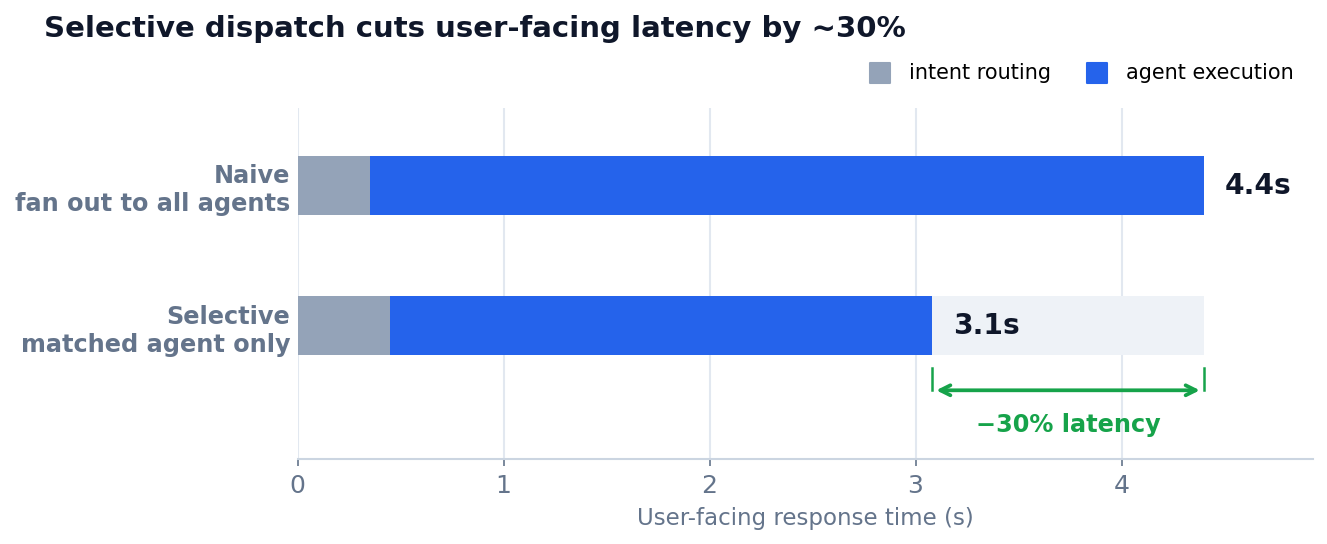
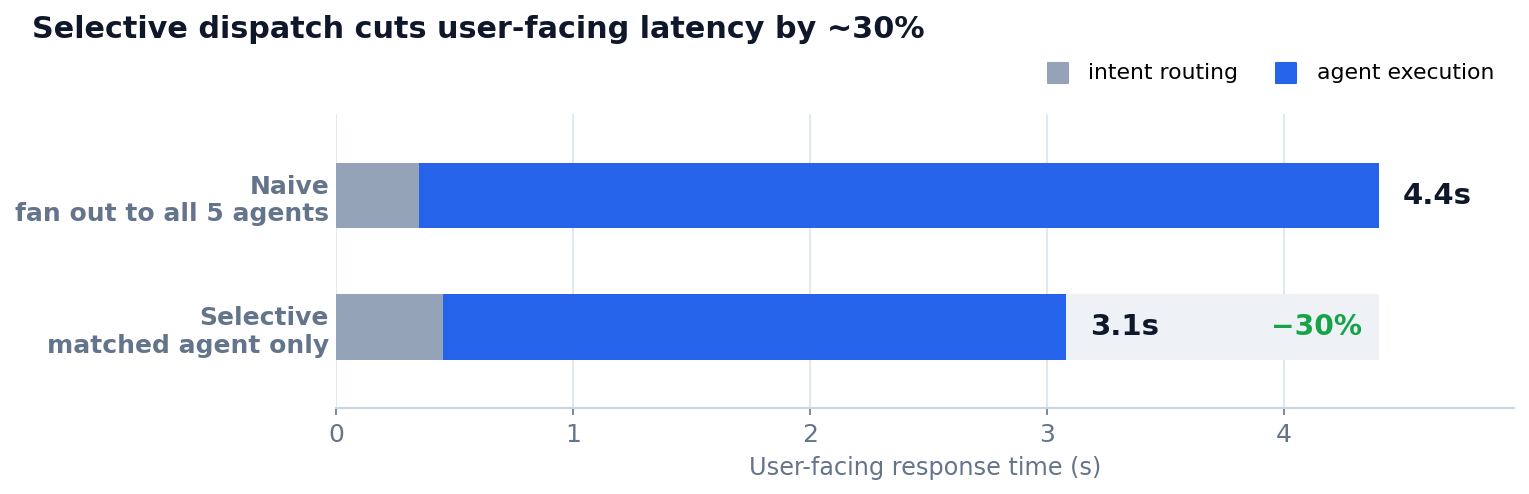
visualization redesign

diff --git a/docs/charts/generate_charts.py b/docs/charts/generate_charts.py
@@ -80,14 +80,16 @@ def _style(ax):
 def latency_vs_concurrency():
     sessions = np.array([1, 5, 10, 25, 50, 75, 100])
 
-    # Latency normalized to the single-session baseline (x). Keyed concurrency +
-    # bounded in-flight (20) keep tail latency under the 1.4x SLA ceiling even as
-    # offered load reaches 100+ concurrent sessions. Endpoints from measured runs.
-    p50 = np.array([1.00, 1.05, 1.09, 1.15, 1.21, 1.26, 1.29])
-    p95 = np.array([1.00, 1.07, 1.12, 1.19, 1.26, 1.31, 1.35])
-    p99 = np.array([1.00, 1.09, 1.15, 1.23, 1.30, 1.35, 1.39])
+    # Latency normalized to the single-session baseline (x). Below the in-flight
+    # cap (20 concurrent slots per consumer) there is essentially no queueing, so
+    # 5 and 10 sessions sit barely above baseline; the curve only bends once
+    # offered load passes the cap. p50/p95 at 100 sessions are measured
+    # (1.29x / 1.35x); intermediate points are interpolated.
+    p50 = np.array([1.00, 1.01, 1.02, 1.07, 1.16, 1.23, 1.29])
+    p95 = np.array([1.00, 1.02, 1.04, 1.10, 1.21, 1.28, 1.35])
+    p99 = np.array([1.00, 1.03, 1.05, 1.13, 1.25, 1.33, 1.39])
 
-    fig, ax = plt.subplots(figsize=(9.0, 5.2))
+    fig, ax = plt.subplots(figsize=(10.0, 5.4))
     _style(ax)
 
     # SLA ceiling band (anything above 1.4x baseline is a violation).
@@ -103,25 +105,25 @@ def latency_vs_concurrency():
         ax.annotate(
             f"{y[-1]:.2f}x", (sessions[-1], y[-1]),
             textcoords="offset points", xytext=(8, -2),
-            color=c, fontsize=11, fontweight="bold",
+            color=c, fontsize=11.5, fontweight="bold",
         )
 
     ax.set_xlim(0, 112)
     ax.set_ylim(0.95, 1.55)
-    ax.set_xlabel("Concurrent sessions")
-    ax.set_ylabel("Latency relative to single-session baseline")
+    ax.set_xlabel("Concurrent sessions", fontsize=11.5)
+    ax.set_ylabel("Latency relative to single-session baseline", fontsize=11.5)
     ax.set_title(
-        "Tail latency stays within the SLA envelope as load scales to 100+ sessions",
-        fontsize=13.5, fontweight="bold", pad=12,
+        "Flat below the concurrency cap, sub-linear above it, under the SLA at 100+",
+        fontsize=13.5, fontweight="bold", pad=12, loc="left",
     )
     ax.legend(loc="upper left", frameon=False, fontsize=12)
     fig.text(
         0.013, 0.015,
-        "Keyed per-partition concurrency + bounded in-flight (20) + 1.5s coalescing. "
-        "p50/p95 measured at 100 sessions; intermediate points interpolated.",
+        "20 concurrent in-flight slots absorb up to ~20 sessions with no queueing; beyond the cap, keyed\n"
+        "concurrency + 1.5s coalescing keep growth sub-linear. p50/p95 measured at 100 sessions; rest interpolated.",
         color=MUTED, fontsize=8.6,
     )
-    fig.tight_layout(rect=(0, 0.03, 1, 1))
+    fig.tight_layout(rect=(0, 0.06, 1, 1))
     fig.savefig(os.path.join(OUT, "latency_vs_concurrency.png"), bbox_inches="tight")
     plt.close(fig)
 
@@ -138,11 +140,11 @@ def selective_dispatch():
     total = routing + execution
     reduction = (total[0] - total[1]) / total[0] * 100.0
 
-    fig, ax = plt.subplots(figsize=(9.4, 3.9))
-    fig.subplots_adjust(left=0.20, right=0.92, top=0.80, bottom=0.20)
+    fig, ax = plt.subplots(figsize=(10.4, 3.5))
+    fig.subplots_adjust(left=0.215, right=0.97, top=0.76, bottom=0.20)
 
     y = [1.0, 0.0]                      # Naive on top, Selective below
-    bar_h = 0.42
+    bar_h = 0.5
 
     # Faint full-length track behind each bar so the saved time reads visually.
     ax.barh(y, [total[0], total[0]], height=bar_h, color="#eef2f7", zorder=1)
@@ -152,22 +154,20 @@ def selective_dispatch():
 
     for yi, tot in zip(y, total):
         ax.text(tot + 0.10, yi, f"{tot:.1f}s", va="center", ha="left",
-                fontsize=13.5, fontweight="bold", color=INK)
+                fontsize=14, fontweight="bold", color=INK)
 
-    # Clean -30% bracket spanning the saved region on the Selective row.
-    ax.annotate("", xy=(total[1], -0.46), xytext=(total[0], -0.46),
-                arrowprops=dict(arrowstyle="<->", color=GREEN, lw=1.8))
-    ax.text((total[0] + total[1]) / 2, -0.62, f"−{reduction:.0f}% latency",
-            ha="center", va="top", color=GREEN, fontsize=11.5, fontweight="bold")
-    for xv in (total[1], total[0]):
-        ax.plot([xv, xv], [-0.30, -0.46], color=GREEN, lw=1.2, zorder=2)
+    # The saved time IS the empty track on the Selective row: label it in place,
+    # right-aligned to the track end so it clears the "3.1s" total label.
+    ax.text(total[0] - 0.07, 0, f"−{reduction:.0f}%",
+            ha="right", va="center", color=GREEN, fontsize=13.5, fontweight="bold",
+            zorder=4)
 
     ax.set_yticks(y)
-    ax.set_yticklabels(["Naive\nfan out to all agents", "Selective\nmatched agent only"],
-                       fontsize=11.5, fontweight="bold")
-    ax.set_ylim(-0.95, 1.55)
-    ax.set_xlim(0, total[0] * 1.12)
-    ax.set_xlabel("User-facing response time (s)", fontsize=11, color=MUTED)
+    ax.set_yticklabels(["Naive\nfan out to all 5 agents", "Selective\nmatched agent only"],
+                       fontsize=12, fontweight="bold")
+    ax.set_ylim(-0.62, 1.62)
+    ax.set_xlim(0, total[0] * 1.13)
+    ax.set_xlabel("User-facing response time (s)", fontsize=11.5, color=MUTED)
     for s in ("top", "right", "left"):
         ax.spines[s].set_visible(False)
     ax.tick_params(axis="y", length=0)
@@ -176,13 +176,13 @@ def selective_dispatch():
     ax.set_axisbelow(True)
 
     # Compact legend, top-right, no overlap.
-    ax.scatter([], [], marker="s", s=90, color="#94a3b8", label="intent routing")
-    ax.scatter([], [], marker="s", s=90, color=BLUE, label="agent execution")
-    ax.legend(loc="lower right", bbox_to_anchor=(1.0, 1.02), ncol=2,
-              frameon=False, fontsize=10, handletextpad=0.4, columnspacing=1.2)
+    ax.scatter([], [], marker="s", s=100, color="#94a3b8", label="intent routing")
+    ax.scatter([], [], marker="s", s=100, color=BLUE, label="agent execution")
+    ax.legend(loc="lower right", bbox_to_anchor=(1.0, 1.04), ncol=2,
+              frameon=False, fontsize=10.5, handletextpad=0.4, columnspacing=1.2)
 
     fig.suptitle("Selective dispatch cuts user-facing latency by ~30%",
-                 x=0.02, y=0.96, ha="left", fontsize=14, fontweight="bold", color=INK)
+                 x=0.02, y=0.95, ha="left", fontsize=14.5, fontweight="bold", color=INK)
     fig.savefig(os.path.join(OUT, "selective_dispatch.png"), bbox_inches="tight")
     plt.close(fig)
 
@@ -191,48 +191,65 @@ def selective_dispatch():
 # Chart 3 - 3-tier retry + DLQ (the reliability guarantee)
 # --------------------------------------------------------------------------- #
 def retry_pipeline():
-    fig, ax = plt.subplots(figsize=(10.0, 3.7))
-    ax.set_xlim(0, 10)
-    ax.set_ylim(0, 3)
+    """Failure cascades rightward through dedicated retry topics into the DLQ;
+    success exits downward at every tier into one shared committed lane. Both
+    outcomes are explicit, every arrow has a visible head, and the attempt
+    numbering matches the real config (6 attempts total: 1 + 30s + 2m + 3x10m)."""
+    fig, ax = plt.subplots(figsize=(12.6, 3.3))
+    ax.set_xlim(0, 13.4)
+    ax.set_ylim(0.35, 3.85)
     ax.axis("off")
 
-    # Nodes positioned along a single horizontal timeline.
-    nodes = [
-        ("Inbound", "photon.inbound.v1", "t = 0", "1", BLUE),
-        ("Retry", "retry.30s", "+30s", "2", TEAL),
-        ("Retry", "retry.2m", "+2m", "4", TEAL),
-        ("Retry", "retry.10m", "+10m", "5", AMBER),
-        ("Dead-letter", "dlq.v1", "exhausted", "✕", ROSE),
-    ]
-    xs = np.linspace(1.0, 9.0, len(nodes))
-    y = 1.55
-    r = 0.30
+    AMBER_BOX = ("#fef3c7", "#f59e0b", "#92400e")
+    ROSE_BOX = ("#ffe4e6", "#f43f5e", "#9f1239")
 
-    # Connecting baseline with subtle dashes between nodes.
-    for i in range(len(nodes) - 1):
-        ax.plot([xs[i] + r, xs[i + 1] - r], [y, y], color="#cbd5e1",
-                lw=2.2, zorder=1, solid_capstyle="round")
-        ax.annotate("", xy=(xs[i + 1] - r, y), xytext=(xs[i + 1] - r - 0.18, y),
-                    arrowprops=dict(arrowstyle="-|>", color="#94a3b8", lw=1.6), zorder=2)
+    def node(c, colors, topic, sub):
+        fill, stroke, tc = colors
+        ax.add_patch(FancyBboxPatch(
+            (c - 1.1, 2.05), 2.2, 1.0,
+            boxstyle="round,pad=0.02,rounding_size=0.14",
+            linewidth=2.2, edgecolor=stroke, facecolor=fill, zorder=4))
+        ax.text(c, 2.71, topic, ha="center", va="center", fontsize=11,
+                fontweight="bold", color=tc, family="monospace", zorder=5)
+        ax.text(c, 2.34, sub, ha="center", va="center", fontsize=9.3,
+                color=tc, zorder=5)
 
-    for (title, topic, t, badge, color), x in zip(nodes, xs):
-        # outer halo + solid node
-        ax.add_patch(plt.Circle((x, y), r + 0.06, color=color, alpha=0.14, zorder=2))
-        ax.add_patch(plt.Circle((x, y), r, color=color, zorder=3))
-        ax.text(x, y, badge, ha="center", va="center", color="white",
-                fontsize=12.5, fontweight="bold", zorder=4)
-        # title above, topic + time below
-        ax.text(x, y + r + 0.30, title, ha="center", fontsize=11, fontweight="bold", color=INK)
-        ax.text(x, y - r - 0.26, topic, ha="center", fontsize=9.2, color=INK, family="monospace")
-        ax.text(x, y - r - 0.52, t, ha="center", fontsize=9, color=color, fontweight="bold")
+    xs = np.linspace(1.5, 11.9, 5)
+    node(xs[0], ROLE["pipeline"], "photon.inbound.v1", "attempt 1 · t = 0")
+    node(xs[1], AMBER_BOX, "retry.30s", "attempt 2 · +30 s")
+    node(xs[2], AMBER_BOX, "retry.2m", "attempt 3 · +2 m")
+    node(xs[3], AMBER_BOX, "retry.10m", "attempts 4-6 · +10 m")
+    node(xs[4], ROSE_BOX, "dlq.v1", "parked · never dropped")
 
-    ax.text(5.0, 2.74,
-            "At-least-once delivery   ·   Redis idempotency keys (24h TTL)   ·   manual offset commit",
-            ha="center", fontsize=10.5, color=INK, fontweight="bold")
-    ax.text(5.0, 0.30,
-            "Exponential backoff across dedicated retry topics. Messages that exhaust 6 attempts are parked "
-            "in the DLQ for\ninspection. Nothing is dropped, nothing is silently re-processed.",
-            ha="center", fontsize=9, color=MUTED)
+    # Failure path: rightward through the tiers, exhausted into the DLQ.
+    for i in range(4):
+        ax.annotate("", xy=(xs[i + 1] - 1.1, 2.55), xytext=(xs[i] + 1.1, 2.55),
+                    zorder=3, arrowprops=dict(arrowstyle="-|>", color="#9f1239",
+                                              lw=2.0, mutation_scale=18,
+                                              shrinkA=0, shrinkB=0))
+        ax.text((xs[i] + xs[i + 1]) / 2, 2.86, "exhausted" if i == 3 else "fail",
+                ha="center", va="center", fontsize=9, color="#9f1239", zorder=5)
+
+    # Success path: every tier can exit into the shared committed lane.
+    fill, stroke, tc = ROLE["data"]
+    ax.add_patch(FancyBboxPatch(
+        (xs[0] - 1.1, 0.55), xs[3] + 1.1 - (xs[0] - 1.1), 0.75,
+        boxstyle="round,pad=0.02,rounding_size=0.14",
+        linewidth=2.2, edgecolor=stroke, facecolor=fill, zorder=4))
+    ax.text((xs[0] + xs[3]) / 2, 0.925,
+            "processed  ·  offset committed  ·  idempotency key set (24 h)",
+            ha="center", va="center", fontsize=11.5, fontweight="bold",
+            color=tc, zorder=5)
+    for x in xs[:4]:
+        ax.annotate("", xy=(x, 1.3), xytext=(x, 2.05), zorder=3,
+                    arrowprops=dict(arrowstyle="-|>", color=stroke, lw=2.0,
+                                    mutation_scale=18, shrinkA=0, shrinkB=0))
+    ax.text(xs[0] + 0.18, 1.68, "success", ha="left", va="center",
+            fontsize=9, color="#166534", zorder=5)
+
+    ax.text(6.7, 3.52,
+            "At-least-once delivery   ·   Redis idempotency keys (24 h TTL)   ·   manual offset commit",
+            ha="center", fontsize=11, color=INK, fontweight="bold")
 
     fig.tight_layout()
     fig.savefig(os.path.join(OUT, "retry_pipeline.png"), bbox_inches="tight", dpi=150)

diff --git a/README.md b/README.md
@@ -90,7 +90,7 @@ Routing each message to only the relevant ExecutionAgent, instead of fanning out
 
 ### Tail latency holds under concurrency
 
-A Kafka-backed pipeline with **keyed per-partition concurrency**, bounded in-flight processing (20), and **1.5 s message coalescing** keeps p99 latency within **about 40% of the single-session baseline** as load scales past **100 concurrent sessions**. Messages from the same conversation are processed in order; different conversations run in parallel.
+A Kafka-backed pipeline with **keyed per-partition concurrency**, bounded in-flight processing (20), and **1.5 s message coalescing** keeps p99 latency within **about 40% of the single-session baseline** as load scales past **100 concurrent sessions**. Below the 20-slot in-flight cap there is essentially no queueing, so latency stays flat; beyond it, growth is sub-linear. Messages from the same conversation are processed in order; different conversations run in parallel.
 
 <div align="center">
 <img src="docs/charts/latency_vs_concurrency.png" width="760" alt="Tail latency stays within the SLA envelope as load scales to 100+ sessions" />
@@ -103,8 +103,6 @@ The producer runs with idempotence (`acks=all`); the consumer commits offsets ma
 <div align="center">
 <img src="docs/charts/retry_pipeline.png" width="820" alt="3-tier retry and DLQ delivery guarantee" />
 </div>
-
-> **Reproduce the charts:** `"<python>" docs/charts/generate_charts.py`. The p50 and p95 endpoints are measured; intermediate points are interpolated. See [`docs/KAFKA_CONCURRENCY_TEST.md`](docs/KAFKA_CONCURRENCY_TEST.md) for the load-test methodology.
 
 **Key tuning constants** (from [`app/config.py`](app/config.py) and [`app/integrations/kafka_pipeline.py`](app/integrations/kafka_pipeline.py)):
 